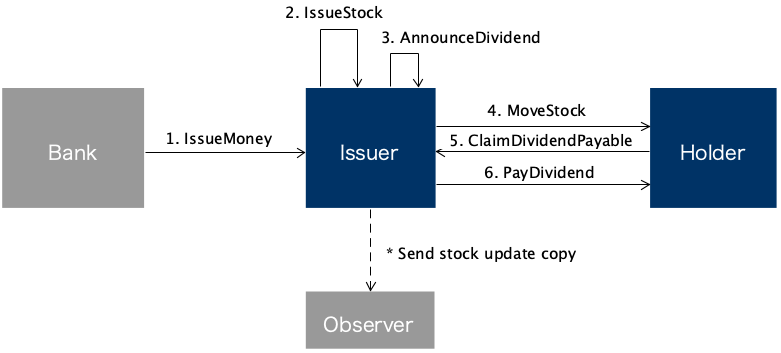
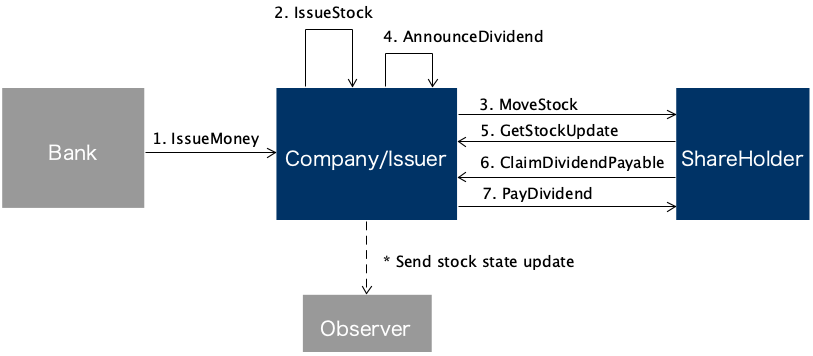
Updated flow diagram and comments

diff --git a/stockexchange-TokenSDK/contracts/src/main/java/net/corda/examples/stockexchange/contracts/DividendContract.java b/stockexchange-TokenSDK/contracts/src/main/java/net/corda/examples/stockexchange/contracts/DividendContract.java
@@ -7,6 +7,7 @@ import net.corda.examples.stockexchange.states.DividendState;
 import net.corda.examples.stockexchange.states.StockState;
 
 import java.security.PublicKey;
+import java.util.Calendar;
 import java.util.List;
 import java.util.Set;
 import java.util.stream.Collectors;
@@ -37,20 +38,22 @@ public class DividendContract implements Contract {
     private void verifyCreate(LedgerTransaction tx, List<PublicKey> requiredSigners){
         List<ContractState> outputs = tx.getOutputStates();
         requireThat(req -> {
-            //TODO add observer
+            // Add any validations that may fit
+            List<DividendState> outputDividends = tx.outputsOfType(DividendState.class);
+            req.using("There must be one output dividend.", outputDividends.size() == 1);
 
-//            List<StockState> inputStock = tx.outputsOfType(StockState.class);
-//            req.using("There must be input stock.", !inputStock.isEmpty());
-//
-//            List<DividendState> outputStock = tx.outputsOfType(DividendState.class);
-//            req.using("There must be output stock.", !outputStock.isEmpty());
-//
-//            List<DividendState> outputDividends = tx.outputsOfType(DividendState.class);
-//            req.using("There must be one output dividend.", outputDividends.size() == 1);
-//
-//            DividendState outputDividend = outputDividends.get(0);
-//            // Checks the required parties have signed.
-//            req.using("Both stock holder and issuer must sign the dividend receivable transaction.", requiredSigners.equals(keysFromParticipants(outputDividend)));
+            DividendState outputDividend = outputDividends.get(0);
+            req.using("Issuer and holder of the dividend should not be the same.", !outputDividend.getHolder().equals(outputDividend.getIssuer()));
+            req.using("Both stock holder and issuer must sign the dividend receivable transaction.", requiredSigners.equals(keysFromParticipants(outputDividend)));
+
+            /**
+             * A constraint that makes more sense but may fail unless payDay will block running the sample
+             */
+            // Calendar payDayCal = Calendar.getInstance();
+            // payDayCal.setTime(outputDividend.getPayDate());
+            // Calendar aWeekLater = Calendar.getInstance();
+            // aWeekLater.add(Calendar.DATE, 7);
+            // req.using("PayDay should be at least a week after the day of dividend creation", payDayCal.after(aWeekLater));
 
             return null;
         });
@@ -59,15 +62,14 @@ public class DividendContract implements Contract {
     private void verifyPay(LedgerTransaction tx, List<PublicKey> requiredSigners){
         List<ContractState> inputs = tx.getInputStates();
         requireThat(req -> {
-            //TODO checks for paying off dividend
+            List<DividendState> inputDividends = tx.outputsOfType(DividendState.class);
+            req.using("There must be one input dividend.", inputDividends.size() == 1);
 
-//            List<DividendState> inputDividends = tx.outputsOfType(DividendState.class);
-//            req.using("There must be one input dividend.", inputDividends.size() == 1);
-//
-//            DividendState inputDividend = inputDividends.get(0);
-//             Checks the required parties have signed.
-//            req.using("Both stock holder and issuer must sign the dividend receivable transaction.", requiredSigners.equals(keysFromParticipants(inputDividend)));
+            List<DividendState> outputDividends = tx.outputsOfType(DividendState.class);
+            req.using("There should be no output dividends.", outputDividends.isEmpty());
 
+            DividendState inputDividend = inputDividends.get(0);
+            req.using("Both stock holder and issuer must sign the dividend receivable transaction.", requiredSigners.equals(keysFromParticipants(inputDividend)));
             return null;
         });
 

diff --git a/stockexchange-TokenSDK/workflows/src/main/java/net/corda/examples/stockexchange/flows/AnnounceDividend.java b/stockexchange-TokenSDK/workflows/src/main/java/net/corda/examples/stockexchange/flows/AnnounceDividend.java
@@ -19,6 +19,7 @@ import java.util.List;
 /**
  * Designed initiating node : Issuer
  * In this flow, the StockState is updated to declare a number of dividend via the built-in flow UpdateEvolvableToken.
+ * The observer then receives a copy of this updated StockState as well.
  * The holder of the tokens of the StockState will not be affected.
  */
 public class AnnounceDividend {
@@ -47,7 +48,7 @@ public class AnnounceDividend {
             StateAndRef<StockState> stockStateRef = QueryUtilities.queryStock(symbol, getServiceHub());
             StockState stock = stockStateRef.getState().getData();
 
-            // Form the output state here
+            // Form the output state here with a dividend to be announced
             StockState outputState = new StockState(
                     stock.getLinearId(),
                     stock.getIssuer(),
@@ -58,12 +59,11 @@ public class AnnounceDividend {
                     executionDate,
                     payDate);
 
+            // Get predefined observers
             IdentityService identityService = getServiceHub().getIdentityService();
-
             List<Party> observers = ObserversUtilities.getObserverLegalIdenties(identityService);
 
-            // here use observer approach to send the stock update to exchange and all participants.
-            // One of the better design is the participant to request the update before market open by using sendTransactionFlow
+            // Update the stock state and send a copy to the observers eventually
             return subFlow(new UpdateEvolvableToken(stockStateRef, outputState, observers));
         }
     }
@@ -79,6 +79,7 @@ public class AnnounceDividend {
         @Suspendable
         @Override
         public SignedTransaction call() throws FlowException {
+            // To implement the responder flow, simply call the subflow of UpdateEvolvableTokenFlowHandler
             return subFlow(new UpdateEvolvableTokenFlowHandler(counterSession));
         }
     }

diff --git a/stockexchange-TokenSDK/workflows/src/main/java/net/corda/examples/stockexchange/flows/PayDividend.java b/stockexchange-TokenSDK/workflows/src/main/java/net/corda/examples/stockexchange/flows/PayDividend.java
@@ -34,8 +34,7 @@ import static net.corda.core.contracts.ContractsDSL.requireThat;
 /**
  * Designed initiating node : Issuer
  * Issuer pays off any dividend that it should be paid.
- * Key notes:
- * - how TokenSelection.generateMove() and MoveTokensUtilitiesKt.addMoveTokens() work together to simply create a transfer of tokens
+ * The key of this flow is that TokenSelection.generateMove() and MoveTokensUtilitiesKt.addMoveTokens() work together to simply create a transfer of tokens
  */
 public class PayDividend {
     private final ProgressTracker progressTracker = new ProgressTracker();
@@ -128,18 +127,10 @@ public class PayDividend {
                 @Override
                 protected void checkTransaction(SignedTransaction stx) throws FlowException {
                     requireThat(req -> {
-                        // TODO Add more constraints on the shareholder side
-
-                        // Example constraints
-
-                        if (stx.getTx().getCommands().stream().noneMatch(c->c.getValue() instanceof DividendContract.Commands.Pay)){
-                            throw new IllegalArgumentException("Invalid Command. Expecting: DividendContract.Commands.Pay");
-                        }
-
+                        // Any checkings that the DividendContract is be not able to validate.
                         List<FungibleToken> outputFiats = stx.getTx().outputsOfType(FungibleToken.class);
                         List<FungibleToken> holderFiats = outputFiats.stream().filter(fiat->fiat.getHolder().equals(getOurIdentity())).collect(Collectors.toList());;
                         req.using("One FungibleToken output should be held by Shareholder", holderFiats.size()==1);
-
                         return null;
                     });
 

diff --git a/stockexchange-TokenSDK/workflows/src/main/java/net/corda/examples/stockexchange/flows/ClaimDividendReceivable.java b/stockexchange-TokenSDK/workflows/src/main/java/net/corda/examples/stockexchange/flows/ClaimDividendReceivable.java
@@ -78,18 +78,8 @@ public class ClaimDividendReceivable {
                 @Override
                 protected void checkTransaction(SignedTransaction stx) throws FlowException {
                     requireThat(req -> {
-                        // TODO Add more constraints on the shareholder side
-
-                        // Example constraints
-
-                        if (stx.getTx().getCommands().stream().noneMatch(c->c.getValue() instanceof DividendContract.Commands.Create)){
-                            throw new IllegalArgumentException("Invalid Command. Expecting: DividendContract.Commands.Create");
-                        }
-
-                        List<DividendState> outputDividends = stx.getTx().outputsOfType(DividendState.class);
-                        req.using("There must be one output dividend.", outputDividends.size() == 1);
-
-                        DividendState dividend = outputDividends.get(0);
+                        // Any checkings that the DividendContract is be able to validate. Below are some example constraints
+                        DividendState dividend = stx.getTx().outputsOfType(DividendState.class).get(0);
                         req.using("Claimed dividend should be owned by Shareholder", dividend.getHolder().equals(getOurIdentity()));
 
                         return null;

diff --git a/stockexchange-TokenSDK/workflows/src/main/java/net/corda/examples/stockexchange/flows/IssueStock.java b/stockexchange-TokenSDK/workflows/src/main/java/net/corda/examples/stockexchange/flows/IssueStock.java
@@ -28,6 +28,7 @@ import java.util.List;
  * This flow issues a stock to the node itself just to keep things simple
  * ie. the issuer and the recipient of IssueTokens are the same
  * It first creates a StockState as EvovableTokenType and then issues some tokens base on this EvovableTokenType
+ * The observer receives a copy of all of the transactions and records it in their vault
  */
 @InitiatingFlow
 @StartableByRPC

diff --git a/stockexchange-TokenSDK/README.md b/stockexchange-TokenSDK/README.md
@@ -21,52 +21,65 @@ See https://docs.corda.net/tutorial-cordapp.html#running-the-example-cordapp.
 This CordApp assumes there are 4 parties
 * **Issuer** - who creates and maintains the stock state and pay dividends to shareholders after time.
 * **Holder** - who shareholder receives dividends base on the owning stock.
-* **Bank** - who issue fiat currency tokens.
-* **Observer** - who keeps the update or copy whenever the stock changes. Mostly the financial regulatory authorities like SEC  
+* **Bank** - who issues fiat tokens.
+* **Observer** - who keeps a copy whenever a stock is created or updated. 
+<br>In real life, it should be the financial regulatory authorities like SEC  
 
 ### Running the sample
 To go through the sample flow, execute the commands on the corresponding node  
 
-1. IssueMoney - Issuer
-
+##### 1. IssueMoney - Issuer
 Bank issues some fiat currencies to the issuer for paying off dividends later. 
->On issuer node, execute `start IssueMoney currency: USD, amount: 500, recipient: Issuer`
+>On issuer node, <br>execute `start IssueMoney currency: USD, amount: 500, recipient: Issuer`
 
-2. IssueStock - Issuer
-
+##### 2. IssueStock - Issuer
 Issuer creates a StockState and issues some stock tokens associated to the created StockState.
->On issuer node, execute `start IssueStock symbol: TEST, name: "Stock, SP500", currency: USD, issueVol: 500, notary: Notary`
+>On issuer node, <br>execute `start IssueStock symbol: TEST, name: "Stock, SP500", currency: USD, issueVol: 500, notary: Notary`
 
-3. MoveStock - Issuer
-
+##### 3. MoveStock - Issuer
 Issuer transfers some stock tokens to the Holder.
->On issuer node, execute `start MoveStock symbol: TEST, quantity: 100, recipient: Holder`
+>On issuer node, <br>execute `start MoveStock symbol: TEST, quantity: 100, recipient: Holder`
 
-4. AnnounceDividend - Issuer
-
+##### 4. AnnounceDividend - Issuer
 Issuer announces the dividends that will be paid on the payday.
->On issuer node, execute `start AnnounceDividend symbol: TEST, quantity: 0.05, executionDate: "2019-11-22T00:00:00Z", payDate: "2019-11-23T00:00:00Z"`
+>On issuer node, <br>execute `start AnnounceDividend symbol: TEST, quantity: 0.05, executionDate: "2019-11-22T00:00:00Z", payDate: "2019-11-23T00:00:00Z"`
 
-5. GetStockUpdate - Holder
-
+##### 5. GetStockUpdate - Holder
 Shareholders retrieves the newest stock state from the issuer. 
->On holder node, execute `start GetStockUpdate symbol: TEST`
+>On holder node, <br>execute `start GetStockUpdate symbol: TEST`
 
-6. ClaimDividendReceivable - Holder
-
+##### 6. ClaimDividendReceivable - Holder
 Shareholders finds the dividend is announced and claims the dividends base on the owning stock. 
->On holder node, execute `start ClaimDividendReceivable symbol: TEST`
+>On holder node, <br>execute `start ClaimDividendReceivable symbol: TEST`
 
-7. PayDividend - Issuer
-
+##### 7. PayDividend - Issuer
 On the payday, the issuer pay off the stock with fiat currencies.
->On issuer node, execute `start PayDividend`
+>On issuer node, <br>execute `start PayDividend`
 
-You can also find the flow and example data from the test class FlowTests.java.
+##### Query. Get token balances
+> Get stock token balances 
+<br>`start GetStockBalance symbol: TEST`
 
-*Note that all date constraint(eg. exDay and payDay) is being omitted for simplification. 
-  
----
-### Links
-The detailed definition of EvolvableToken can be found here
-https://github.com/corda/token-sdk/blob/95b7bac668c68f3108bca2c50f4f926d147ee763/design/design.md#evolvabletokentype
+>Get fiat token balances
+<br>`start GetFiatBalance currencyCode: USD`
+
+#### Test case
+You can also find the flow and example data from the test class [FlowTests.java](workflows/src/test/java/net/corda/examples/stockexchange/FlowTests.java).
+ 
+*Note that all date constraint(eg. exDay and payDay) is being omitted for simplification.  
+
+### Useful links
+##### Documentations
+[Token-SDK tutorial](https://github.com/corda/token-sdk/blob/master/docs/DvPTutorial.md)
+<br>
+[Token-SDK design document](https://github.com/corda/token-sdk/blob/95b7bac668c68f3108bca2c50f4f926d147ee763/design/design.md#evolvabletokentype)
+
+##### Other materials
+[Blog - House trading sample](https://medium.com/corda/lets-create-some-tokens-5e7f94c39d13) - 
+A less complicated sample of TokenSDK about trading house.
+<br>
+[Blog - Introduction to Token SDK in Corda](https://medium.com/corda/introduction-to-token-sdk-in-corda-9b4dbcf71025) -
+Provides basic understanding from the ground up.
+
+
+
